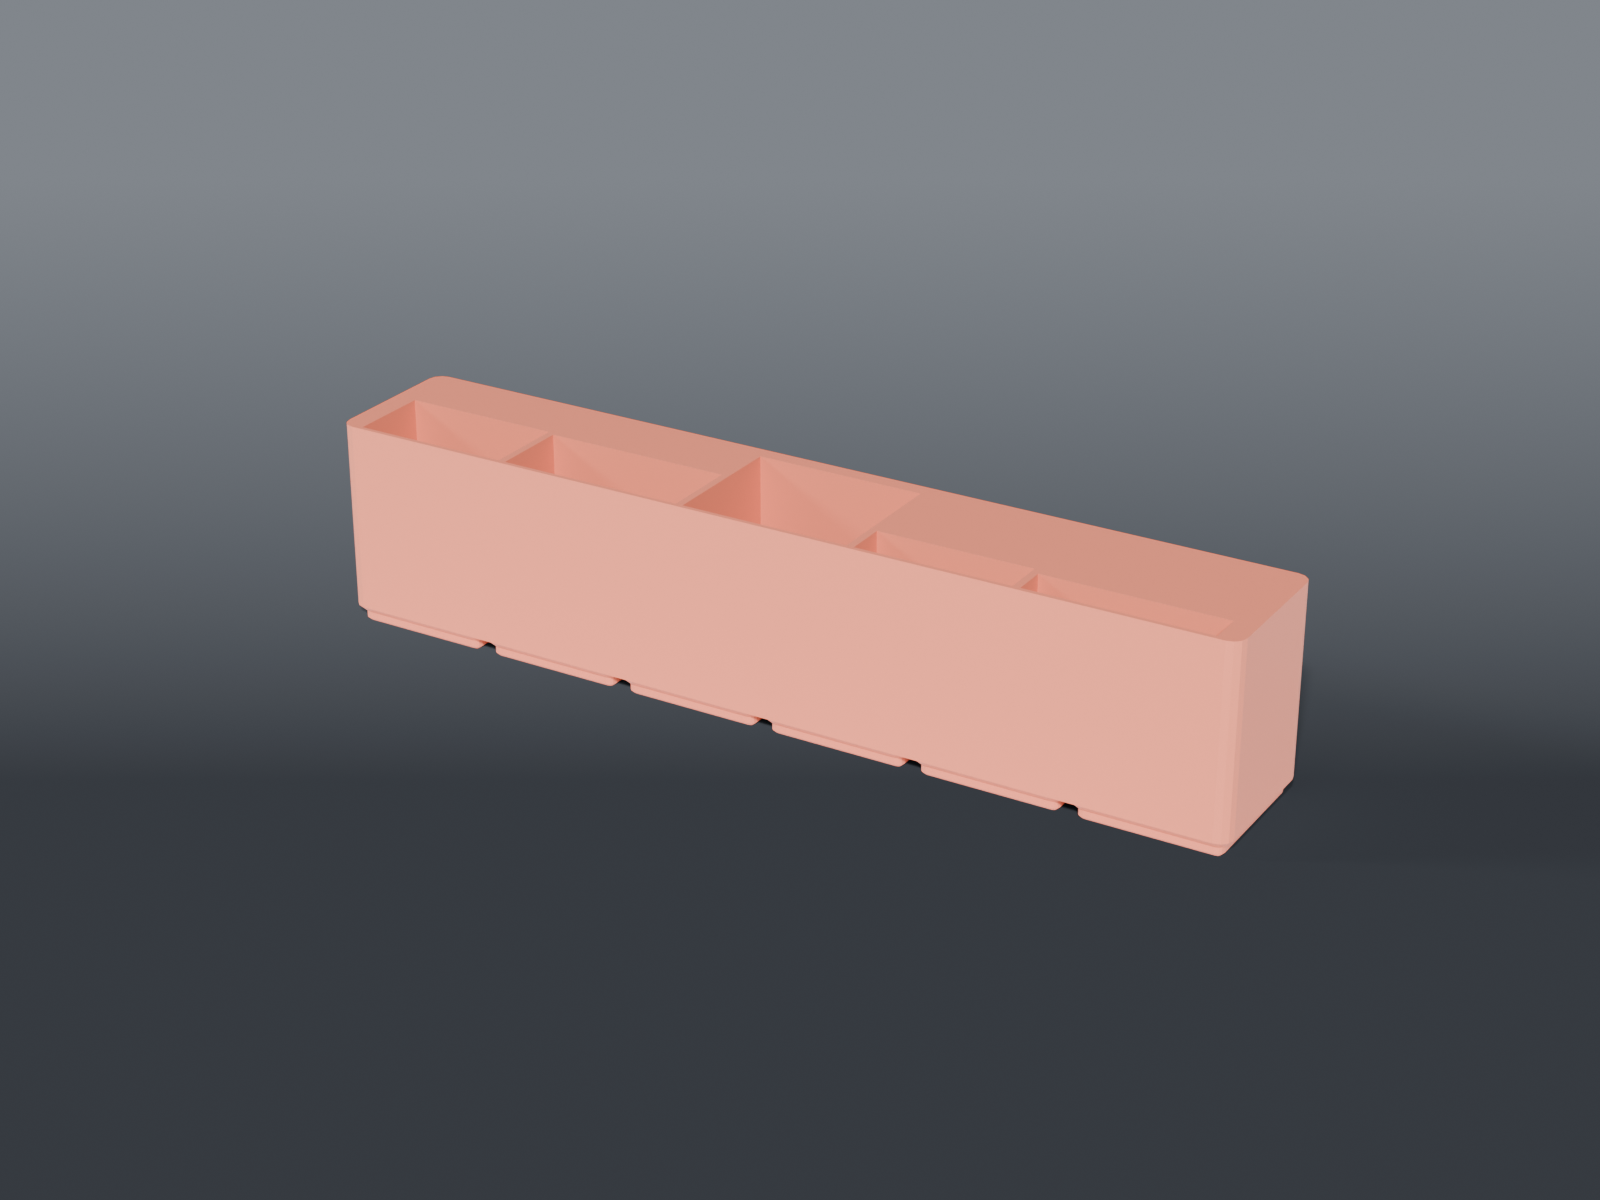
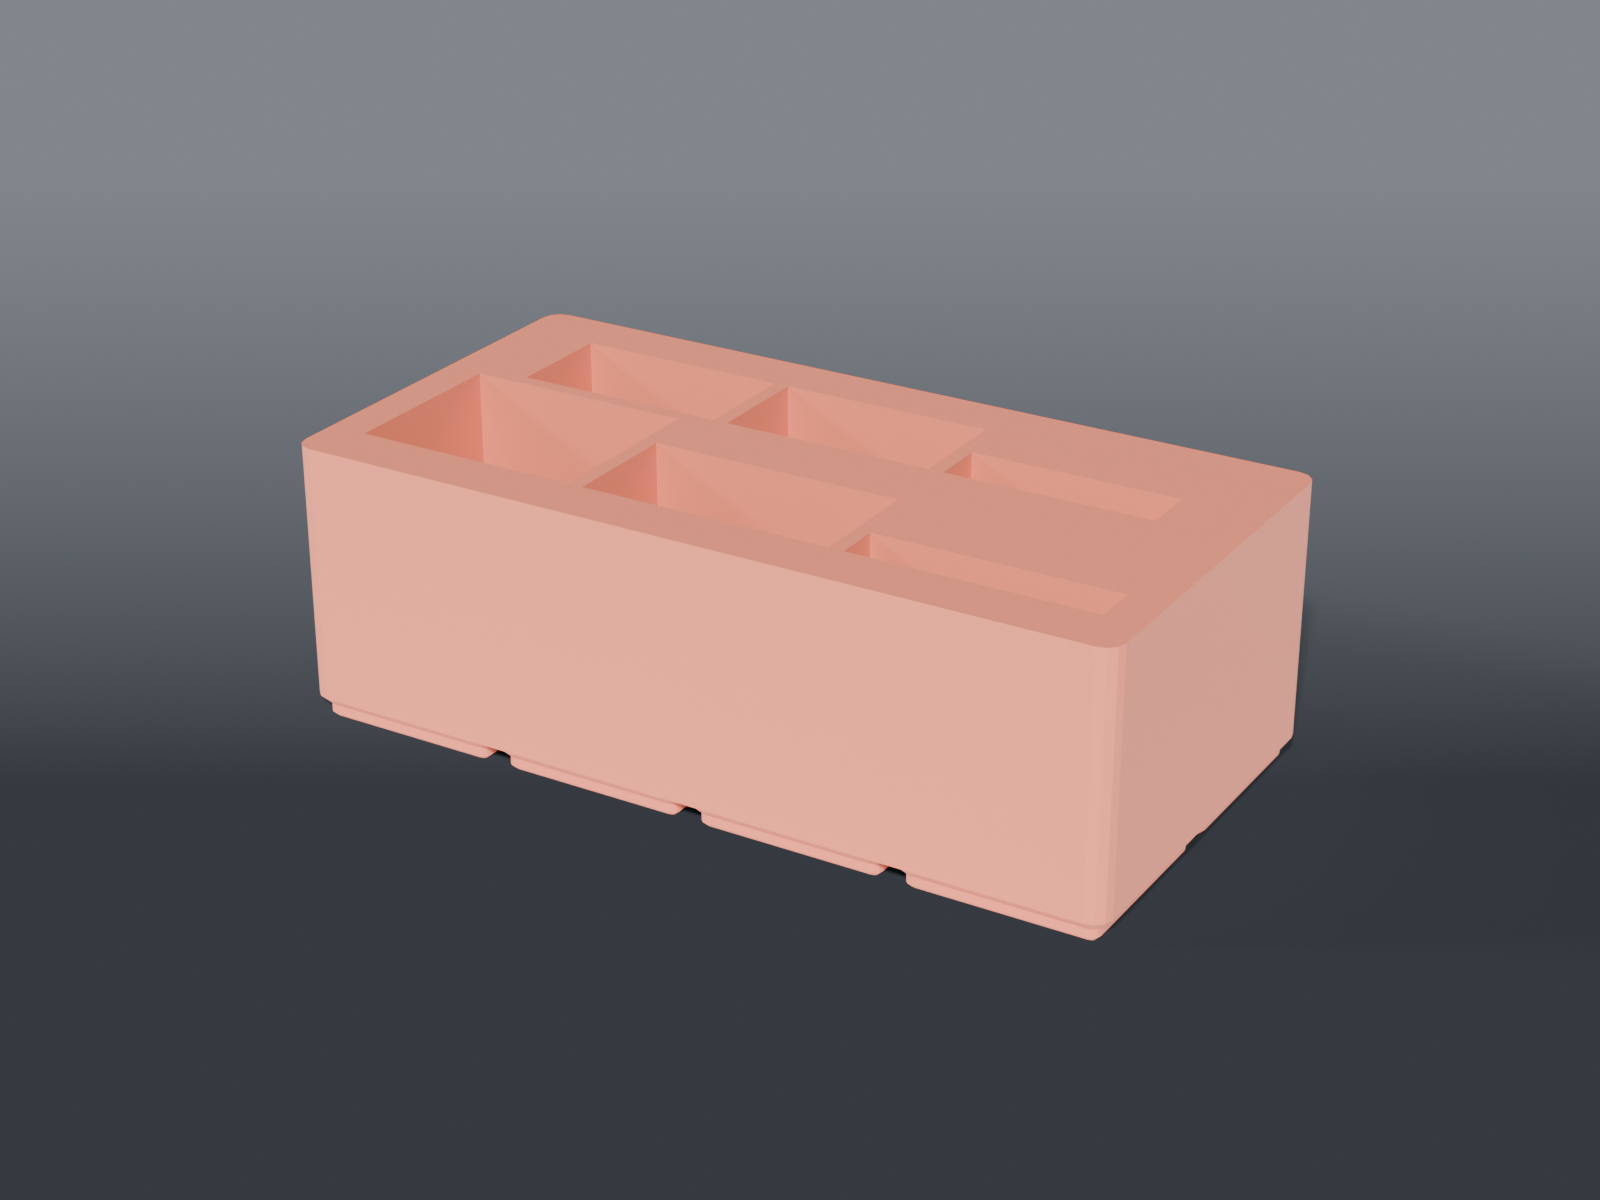
fix: second Roku slot, Insignia button clearance, taller droppers, iron stand lips

Changed region(s): [[0.1875, 0.2467, 0.8438, 0.8017]]

diff --git a/remote-tray/README.md b/remote-tray/README.md
@@ -2,36 +2,77 @@
 
 ![Remote tray](preview.png)
 
-**Gridfinity** 6×1 tray holding five remotes on end, each in a slot cut to that remote.
+**Gridfinity** 4×2 tray holding six remotes on end, two rows of three, each in a slot cut to
+that remote.
 
 ## Why slots and not a bin
 
-Five remotes in a shared well fall over each other and you dig for the one you want. The
+Six remotes in a shared well fall over each other and you dig for the one you want. The
 thinnest here is 8 mm and the thickest 35 — in a common well the thin ones just lie down.
 
-A slot per remote also means each one can only go back where it came from, and the whole row
+A slot per remote also means each one can only go back where it came from, and each row
 presents at a single front line rather than staggering.
 
 ## Slots
 
+Back row, depth set by the 35 mm LG:
+
+| Remote | Width × thickness | Slot |
+|---|---|---|
+| LG 4K TV | 45 × 35 | 46 × 36 |
+| Insignia TV | 50 × 20 | 51 × **24** |
+| Fume extractor | 48 × 8 | 49 × 9 |
+
+Front row, depth set by the Rokus:
+
 | Remote | Width × thickness | Slot |
 |---|---|---|
 | Roku | 42 × 21 | 43 × 22 |
-| Insignia TV | 50 × 20 | 51 × 21 |
-| LG 4K TV | 45 × 35 | 46 × 36 |
+| Roku | 42 × 21 | 43 × 22 |
 | Microscope cam | 41 × 10 | 42 × 11 |
-| Fume extractor | 48 × 8 | 49 × 9 |
 
-Front-aligned, 2 mm dividers, 5 mm margin each end. Add or reorder by editing the `REMOTES`
-list — widths and positions are computed from it, and an assert fires if they no longer fit.
+Front-aligned within a row, 3 mm dividers. Add or reorder by editing the `ROWS` list — widths,
+row depths and positions are all computed from it, and asserts fire if a row no longer fits.
 
-## Two numbers that constrain this
+## The Insignia slot is 4 mm deeper than the remote is thick
 
-**6×1 is the only size that works.** The slots total 226 mm; with clearance and walls that's 243
-against a 6×1's 249.1 mm interior. A 7×1 would be 293.5 mm and **exceeds the 270 mm bed**.
+Every other slot gets 1 mm of clearance. The Insignia gets 4, because **it jammed on its own
+buttons the moment it entered the slot**. 20 mm is the thickness of the *body*; the thing that
+actually has to pass through the slot is the button crown standing proud of it, and nobody
+measured that.
 
-**Dividers are 2 mm, not the usual 3.** At 3 mm it needs 249.0 of the 249.1 available — that is
-not a fit, it is a coincidence.
+> ⚠ `BUTTON_BULGE = 3.0` is an **allowance, not a measurement.** If it still catches, don't
+> raise it by feel — put calipers across the remote *at the buttons* and make that number the
+> thickness in the `ROWS` table.
+
+This is the same failure as the tip tinner, where the 42.5 mm lid got measured and the 38.38 mm
+body was the part that had to fit. Measure the feature that passes through the hole.
+
+## Why 4×2 and not 6×1
+
+**There are two Roku remotes.** That is what killed the single row, and it isn't a matter of
+tightening clearances:
+
+| | |
+|---|---|
+| Six remote widths, touching, no walls at all | **268 mm** |
+| 6×1 interior | **249.1 mm** |
+| Shortfall before a single divider | **19 mm** |
+
+With real clearance and 3 mm dividers it needs 289. A 7×1 *would* hold it — 291.1 mm of interior
+— but it's 293.5 mm outer and **exceeds the 270 mm bed**. Stacking the two Rokus back-to-back in
+one slot doesn't rescue it either: 42 mm of combined thickness against 39.1 mm of depth.
+
+So the row folds in half. A 4×2 costs eight cells, which is what a 6×1 plus a 2×1 would have
+cost anyway, and it's one part instead of two.
+
+**Rows split by thickness, not by which remote you use most.** Each row is only as deep as its
+own thickest member, so the 35 mm LG and the 8 mm fume extractor share a row for free. Spreading
+the thick ones across both rows would make *both* rows 36 mm deep and blow the depth budget.
+
+**Dividers went back to 3 mm.** The 6×1 ran 2 mm because at 3 it needed 249.0 of 249.1 available
+— not a fit, a coincidence. The widest row here needs 152 of 165.1, so the dividers stop being
+the thing holding the design together.
 
 ## Capture depth
 

diff --git a/soldering-station/README.md b/soldering-station/README.md
@@ -10,27 +10,43 @@ grid, so it stops wandering across the bench.
 The stand's own cradle holds the iron. This only stops the stand moving, so ordinary filament is
 fine — that's the scope this whole family of mounts was defined with.
 
-## Rails, not a pocket
+## Rails and lips, not a pocket
 
 The base is 70 mm across the front, 65 across the rear, 175 long — **and the sponge-tray end is a
 large-radius D**, which those three numbers can't describe. A close-fitting pocket would need
 that radius, and a wrong guess means the stand won't drop in at all.
 
-Locating on the **straight sides only** sidesteps it. The taper does the work: the stand slides
-in from the front and wedges between two converging rails. Both ends stay open, so the D never
-has to be measured.
+Locating on the **straight sides** sidesteps it. The taper does the work: the stand wedges
+between two converging rails.
+
+**A lip does not need the radius either.** It's a backstop, not a socket — a straight bar across
+the rear meets the D at its apex and stops it there, and it doesn't care what the curve does on
+either side of that point. So the plate gets its front and back without anyone tracing anything,
+and the stand is boxed in on all four sides. Drop it straight down in; lift it straight out.
 
 That's the general lesson worth keeping — when an outline is partly unknown, locate on the
 features you *have* measured rather than guessing the ones you haven't.
+
+## End clearance is deliberately loose
+
+The sides get 1 mm per side. The ends get **3**, because the 175 is approximate and the D apex
+may sit past it. That leaves ~6 mm of fore-aft float, which is fine: **the lips are not what
+locates the stand — the converging rails are.** It wedges between them and stops. The lips catch
+it if it's knocked, and stop a hard shove walking it off the deck.
+
+The rails run the full span and go **parallel for the last 3 mm at each end** rather than
+extrapolating the taper past the stand. Extrapolating would pinch the rear gap below 67 and bind
+the very thing the taper exists to seat.
 
 ## Parts
 
 | File | What | Size |
 |---|---|---|
-| `plate_iron_stand.scad` | 2×5 plate, tapered side rails | 83.5 × 209.5 × 14.15 mm |
+| `plate_iron_stand.scad` | 2×5 plate, tapered side rails + end lips | 83.5 × 209.5 × 14.15 mm |
 
 Rail gap runs 72 mm at the front to 67 at the rear — 1 mm clearance per side, deliberately tight
-so the taper wedges rather than rattles.
+so the taper wedges rather than rattles. The end lips sit 181 mm apart and stand to the same
+7 mm as the rails.
 
 ## Source
 

diff --git a/bench-cleaning-station/README.md b/bench-cleaning-station/README.md
@@ -43,13 +43,32 @@ Melamine is consumed by abrasion, so a whole block is far more than any bench ta
 smaller piece reaches between connectors. Bulk stock stays in the bag under the desk. The bin's
 height still clears a **full block on edge**, so one uncut reserve can ride along.
 
+## The dropper caddy got taller, and that is only half a fix
+
+`bin_deoxit_droppers` went from 21 mm to **32 mm** overall (capture depth 15 → 26) because the
+brushes and swabs fell over in their slots.
+
+Depth is what resists an applicator tipping, so more of it genuinely helps — but be clear how
+much. A slot is 11.9 × 20 mm and **no brush or swab has ever been on calipers.** Assuming a 4 mm
+handle:
+
+| Capture depth | Lean across the slot | Lean along it |
+|---|---|---|
+| 15 mm | 27.8° | 46.8° |
+| **26 mm** | **16.9°** | **31.6°** |
+
+Better, not fixed. The slots are sized from *leftover space between the bottle pockets*, not
+from the thing that goes in them. **The number this part needs is the handle diameter of a brush
+and of a swab, and how many of each ship with a bottle.** With those the slot becomes handle plus
+clearance and the lean goes to nothing. Without them, depth is the only lever and it's a weak one.
+
 ## Parts
 
 | File | What | Size |
 |---|---|---|
 | `bin_aerosols.scad` | 5 × 2 three-can block — DeoxIT D5 + F5 + G5, one shared bore | 210 × 84 × 56 mm |
 | `bin_freeze_spray.scad` | 2 × 2 cup — freeze spray, ⌀69 mm can | 84 × 84 × 56 mm |
-| `bin_deoxit_droppers.scad` | 5 × 1 block — 3 × 39 × 20 mm dropper bottle + 2 applicators each | 210 × 42 × 21 mm |
+| `bin_deoxit_droppers.scad` | 5 × 1 block — 3 × 39 × 20 mm dropper bottle + 2 applicators each | 210 × 42 × 32 mm |
 | `bin_swabs.scad` | 3 × 2 bin — cotton buds, dished floor + feed dam | 126 × 84 × 42 mm |
 | `bin_flood_bottle.scad` | 2 × 2 cup — Labvida 500 ml IPA wash bottle | 84 × 84 × 56 mm |
 | `bin_dispenser.scad` | 2 × 2 cup — 200 ml push-down IPA pump | 84 × 84 × 56 mm |
